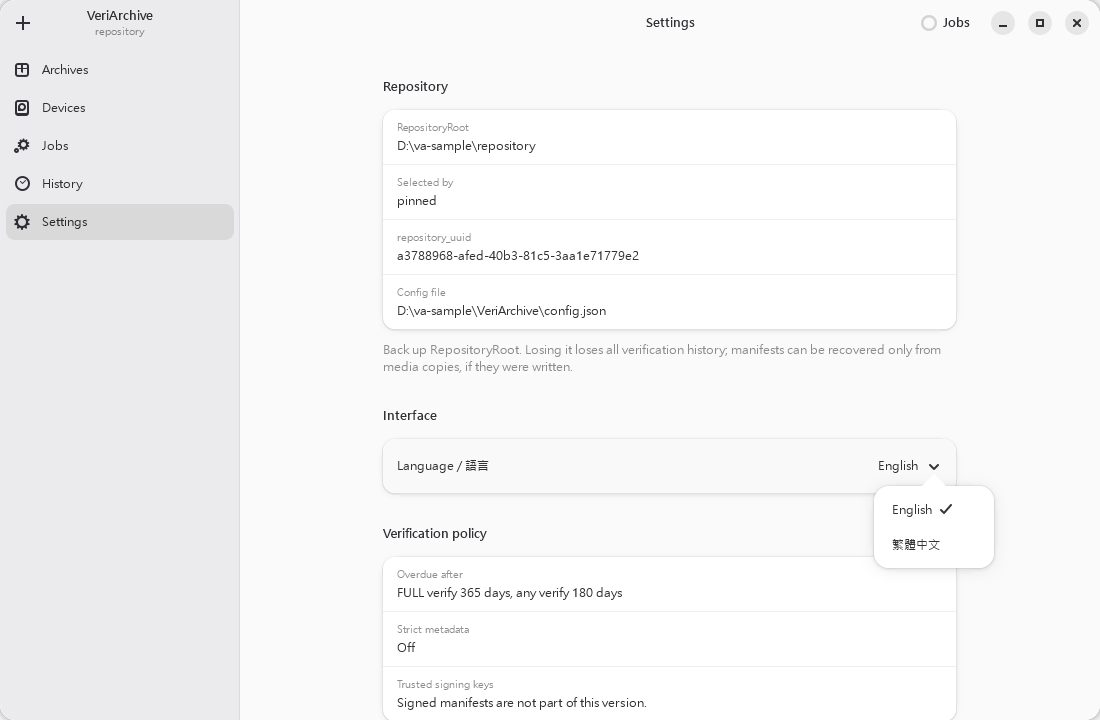
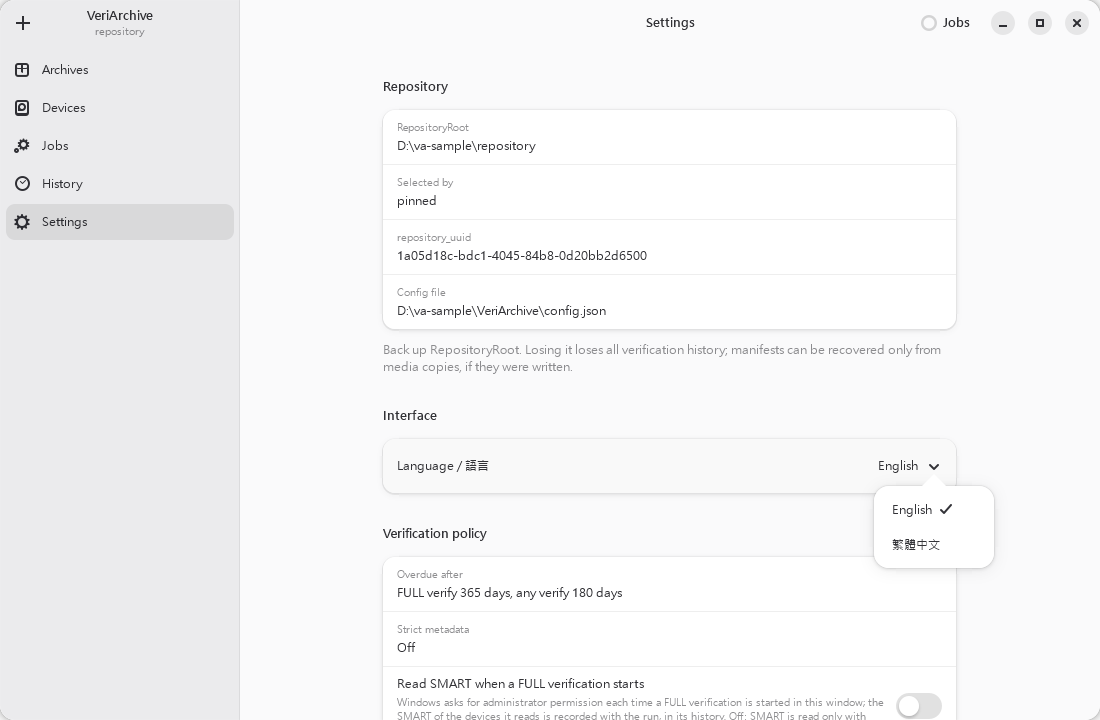
docs: add the dependency install commands and make the READMEs and guides easier to read
- Add the commands that install the build dependencies on Windows (MSYS2 UCRT64), Ubuntu 24.04 and Fedora to both READMEs, the same lists as CI's, with a note in .gitlab-ci.yml to keep them in sync
- Describe the graphical interface in both READMEs as a list of its five pages and short paragraphs, in place of one long paragraph
- Reword the real verification's paragraph in both READMEs
- Split the user guides' paragraphs on the sample data of the screenshots, updating the program and the database upgrade into a table, steps and lists
- Call the program portable (可攜式) in the Chinese guide, as the README does
- Retake the Settings pictures (01-settings.png, 07-language.png) in both languages with the 1.3.0 programs, so that they show Read SMART when a FULL verification starts

Changed region(s): [[0.34, 0.9472, 0.8655, 1.0], [0.3709, 0.3361, 0.5873, 0.3667]]

diff --git a/docs/user-guide.md b/docs/user-guide.md
@@ -1,15 +1,35 @@
 # VeriArchive user guide
 
-VeriArchive records integrity evidence for archive disks and later proves whether the archived files were modified, corrupted, deleted, or added to. It only **detects**: it never repairs, restores, or makes backups.
+VeriArchive records file integrity information for archives so you can later check for modified, corrupted, deleted or added files. It only **detects** changes; it does not repair files, restore them or create backups.
 
 The whole workflow is two steps:
 
 1. **Register**: read every file of a folder or volume once and store its fingerprints (BLAKE3 and SHA-256) as the **baseline**.
 2. **Verify**: later, re-read every registered byte from the disk, compare it with the baseline, and report what changed.
 
-With pictures of the graphical interface (`veriarchive-gui.exe`) as it really looks, this guide takes you step by step through creating the repository, registering an archive, verifying it, reading its result and history, saving a verification report, relocating it, and **confirming that a copy and the original are exactly the same**. Most sections explain the window first, then the command line (`veriarchive-cli.exe`).
+This guide uses screenshots of the graphical interface (`veriarchive-gui.exe`) to explain how to create a repository, register and verify archives, view results and history, save verification reports, relocate archives and cross-check copies against their originals. Most sections cover the GUI first, followed by the corresponding command-line (`veriarchive-cli.exe`) instructions.
 
-All data in the screenshots is sample data. This guide is public, so its screenshots cannot show what a real device holds. The archives are folders of sample files on one volume, under `D:\va-sample`: `原始資料` (`ARCH-0001`, the original) and `備份資料` (`ARCH-0002`, its copy); `舊版封存` (`ARCH-0003`) stands for an archive that an earlier version registered, still without chunk hashes (see "Adding chunk hashes to an archive registered earlier"); and the picture of Register Archive registers a fourth sample folder, `新的資料`, as `ARCH-0009`. While the screenshots are made, VeriArchive replaces the identity of that volume and its device (volume label, device model, serial and capacity) with fixed sample values (`SAMPLE-VOLUME`, `SAMPLE-DEVICE`, `SAMPLE0001`, 1.0 TiB), lists a fixed set of sample devices and volumes (`SAMPLE-DEVICE-01`, `/media/SAMPLE-VOLUME-1`, ...) on the Devices page and in the dialogs in place of this computer's, answers a read of a device's own serial with a fixed sample identity (`SAMPLE-OWN-SERIAL-01`) and made-up SMART data without asking Windows for administrator permission, and names the computer `SAMPLE-HOST`, so no real device ever shows. The times, durations and read speeds are those of the run that made the pictures. In real use you usually register a whole volume of a device, such as `H:\`, chosen among the attached volumes (see "Registering an archive"), and Archives shows its real volume label, model and capacity; everything else works as in the screenshots.
+### Sample data in the screenshots
+
+The screenshots use sample files and substitute device information so that no real devices or private data appear. All sample archives are folders on one volume, under `D:\va-sample`:
+
+| Folder | Archive label | Purpose |
+|---|---|---|
+| `原始資料` | `ARCH-0001` | The original archive |
+| `備份資料` | `ARCH-0002` | A copy of the original archive |
+| `舊版封存` | `ARCH-0003` | An archive registered by an older version, without chunk hashes (see "Adding chunk hashes to an archive registered earlier") |
+| `新的資料` | `ARCH-0009` | The source used in the Register Archive screenshot |
+
+When generating screenshots, the program substitutes the following information:
+
+- Volume label, device model, serial and capacity: `SAMPLE-VOLUME`, `SAMPLE-DEVICE`, `SAMPLE0001` and 1.0 TiB.
+- Devices page and dialogs: a fixed set of sample devices and volumes, such as `SAMPLE-DEVICE-01` and `/media/SAMPLE-VOLUME-1`, instead of this computer's actual devices.
+- Device's own serial and SMART: `SAMPLE-OWN-SERIAL-01` and simulated SMART data, without requesting administrator permission from Windows.
+- Computer name: `SAMPLE-HOST`.
+
+Times, durations and read speeds are the actual measurements from the run used to generate the screenshots.
+
+In normal use, you would usually register a whole volume, such as `H:\`, from the attached volumes (see "Registering an archive"). Archives then shows the actual volume label, model and capacity; the other operations work as shown.
 
 [繁體中文版](user-guide.zh-TW.md)
 
@@ -27,7 +47,15 @@ The zip holds no folder of its own: its `bin`, `lib` and `share` go straight int
 - `bin/veriarchive-device-identity.exe`: the device identity reader, which the window starts only when you ask it to read a device's own serial behind its enclosure or the SMART of the attached devices, with the administrator permission that Windows asks you for (see "A device moved to another enclosure" and "SMART"); it is not meant to be opened by hand
 - `lib/` and `share/`: image loaders, icons, settings and translations GTK needs; `share/doc/VeriArchive/`: this guide and a short README; `share/licenses/`: licenses of the libraries the program uses
 
-To update the program, close VeriArchive, then unzip the new version's zip **into the same folder** (`D:\VeriArchive` in the example) and let it replace the files there. In Windows Explorer: right-click the zip, choose "Extract All...", type the program folder as the destination, and when asked, choose to replace the files in the destination. Explorer proposes a new folder named after the zip instead; a program unzipped there finds none of your records. The zip holds no `bin\data` and no `bin\config.json`, so the existing records are not overwritten. Do not delete the old folder first. To see which version runs, look at "Program version" under About at the end of the Settings page, or run `veriarchive-cli --version` or `veriarchive-cli repo info`.
+To update VeriArchive:
+
+1. Close the program.
+2. In Windows Explorer, right-click the new version's zip and choose "Extract All...".
+3. Set the destination to **the existing program folder** (`D:\VeriArchive` in this example), then replace the files when prompted.
+
+Explorer defaults to a new folder named after the zip. If you extract there, that copy of the program will not find your existing records. The zip contains neither `bin\data` nor `bin\config.json`, so replacing the program files does not overwrite your records. **Do not delete the old folder first.**
+
+To check the running version, look for "Program version" under About at the bottom of Settings, or run `veriarchive-cli --version` or `veriarchive-cli repo info`.
 
 ### Moving the program folder
 
@@ -41,7 +69,21 @@ On first use, the repository (`data`) and the config file that remembers it (`co
 
 ### After updating VeriArchive
 
-A new version may need to upgrade the repository's database, which earlier versions then cannot open. The first time it opens the repository, it keeps a copy of the database as it is beside it, in the repository folder, named for the database's old schema version and the day, for example `veriarchive-schema-1-before-upgrade-2026-10-17.db`, and says where the copy is: the command line in its error output (`note: the repository database was upgraded from schema version 1 to 3, ...`), the GUI on the Settings page, which it then shows first. Afterwards Settings and `repo info` go on showing where each such copy is, and what it is for (`Copy of the database from before an upgrade: ... (an earlier version of VeriArchive can open only this copy; you can delete it once you no longer need that version)`; `repo info --json`: `database_copies_before_upgrade`), for as long as it is in the repository folder, also after the error when the repository cannot be opened, for example when a later version of VeriArchive has upgraded its database: then the copy is your way back. Copying a large database takes a while: meanwhile the GUI's window shows "Upgrading the repository database..." with a moving progress bar in place of its pages, also in a second start that waits for the first one's upgrade, and if the upgrade fails, it says why there. The verification history lives only in the database, so keep the copy until you are sure you will stay with the new version: an earlier version can open only the copy. If the copy cannot be made, for example because the disk is full, nothing is upgraded and the program stops with an error (exit code 11): make room and open the repository again.
+A new version may need to upgrade the repository database. Earlier versions cannot open the upgraded database.
+
+Before upgrading, VeriArchive saves a copy beside the database in the repository folder. The filename includes the old schema version and the date, for example `veriarchive-schema-1-before-upgrade-2026-10-17.db`.
+
+The program reports the copy's location as follows:
+
+- **CLI**: a note on standard error, such as `note: the repository database was upgraded from schema version 1 to 3, ...`.
+- **GUI**: a notice on Settings, which opens first after the upgrade.
+- **Later use**: Settings and `repo info` list each copy's location and purpose for as long as it remains in the repository folder. The notice reads `Copy of the database from before an upgrade: ... (an earlier version of VeriArchive can open only this copy; you can delete it once you no longer need that version)`. In `repo info --json`, these copies appear under `database_copies_before_upgrade`.
+
+The copies are also listed after an error if the repository cannot be opened, including when a newer version has already upgraded it. Use the pre-upgrade copy if you need to return to the earlier version.
+
+Copying a large database can take time. The GUI shows "Upgrading the repository database..." and an animated progress bar until the pages are ready. A second window opened during the upgrade waits with the same message. If the upgrade fails, the window explains why.
+
+**Keep the copy until you are sure you will continue using the new version.** Verification history exists only in the database, and the earlier version can open only the pre-upgrade copy. If the copy cannot be created, for example because the disk is full, VeriArchive leaves the database unchanged and stops with exit code 11. Free up space, then open the repository again.
 
 ## The window
 

diff --git a/README.md b/README.md
@@ -47,10 +47,12 @@ can reach those disks cannot change it, and back it up (see "Backing up the repo
 
 ## A real verification
 
-Not sample data: the FULL verification of a real archive, in the Chinese interface. Its 144,621
-entries, 9.2 TiB, were all read and matched in 11 h 56 min, at 214 MiB/s on average; the chart is
-the read speed along the archive's content. The device had been moved to another enclosure since
-the archive was registered, and was confirmed after reading the device's own serial.
+The screenshot below shows a FULL verification of a real archive, using the Traditional Chinese
+interface. All 144,621 entries, totalling 9.2 TiB, were read and matched the baseline in
+11 h 56 min, at an average of 214 MiB/s. The chart shows read speed across the archive's content.
+
+The device had been moved to another enclosure after registration. Before verification, its own
+serial was read to confirm that it was the same device.
 
 ![The FULL verification of a real archive: passed](docs/real/full-verification.png)
 
@@ -87,6 +89,24 @@ The pages of the graphical interface, showing sample data made by
 Windows commands run in an **MSYS2 UCRT64** shell. Dependencies: GCC ≥ 14, CMake ≥ 3.28, Ninja,
 SQLite ≥ 3.40, OpenSSL 3, GLib ≥ 2.72, GTK4 ≥ 4.14 and libadwaita ≥ 1.5 (for the GUI). BLAKE3 and nlohmann/json are
 downloaded at configure time when not installed.
+
+Install the dependencies for your operating system below. These lists match the CI configuration
+in `.gitlab-ci.yml`; keep CI and both READMEs in sync when changing dependencies.
+
+```sh
+# Windows, in the MSYS2 UCRT64 shell
+pacman -S --needed mingw-w64-ucrt-x86_64-gcc mingw-w64-ucrt-x86_64-cmake mingw-w64-ucrt-x86_64-ninja \
+    mingw-w64-ucrt-x86_64-pkgconf mingw-w64-ucrt-x86_64-sqlite3 mingw-w64-ucrt-x86_64-openssl \
+    mingw-w64-ucrt-x86_64-glib2 mingw-w64-ucrt-x86_64-gtk4 mingw-w64-ucrt-x86_64-libadwaita
+# Ubuntu 24.04
+sudo apt-get install build-essential cmake ninja-build pkg-config ca-certificates git \
+    libsqlite3-dev libssl-dev libglib2.0-dev libgtk-4-dev libadwaita-1-dev
+# Fedora
+sudo dnf install gcc-c++ cmake ninja-build pkgconf-pkg-config git \
+    sqlite-devel openssl-devel glib2-devel gtk4-devel libadwaita-devel
+```
+
+Then build and test:
 
 ```sh
 cmake --preset windows-ucrt64-debug        # or linux-debug
@@ -193,29 +213,39 @@ again. Never use two copies of one repository at once: their histories would par
 
 ## Graphical interface
 
-`veriarchive-gui` is built with GTK4 and libadwaita (decision 0046). Its pages are Archives (an
-overview of how the archives stand, whose tiles filter the list, with Verify the attached archives
-that need it; the archives with where each is attached now; and the details of the one chosen,
-whose head stays in view as they scroll, from which it is verified, cross-checked, given a new
-revision, exported, relocated or retired), Devices (the attached devices, their health and SMART, volumes and
-archives), Jobs (the jobs of the window, and the unfinished operations wherever they were started),
-History (the runs of every archive, each with its result page, from which the verification report
-of a run that reached a result is saved) and Settings; Register Archive and Cross-check are dialogs
-(decision 0049). A cross-check is the window's comparison: it takes neither archive for the
-original, and its report gives each archive's last FULL verification.
-Every registration, verification, cross-check, relocation and export runs as a job with its
-progress, which Stop ends; interrupted registrations, verifications and relocations can be
-resumed in Jobs, and unfinished ones abandoned there. A device moved to another USB enclosure is verified
-in full once you confirm that it is the same device, by its own serial or on your word; the
-confirmation is recorded in the hash-chained history, and only a pass records the new enclosure
-(decision 0047). The GUI runs unprivileged: only to read a device's own serial behind its
-enclosure, or the SMART of the attached devices, on your request, does it start the device identity
-reader (`veriarchive-device-identity.exe`, Windows only), which Windows asks you to allow with
-administrator permission each time. It reads the identity and SMART of every attached device and
-nothing of their content; the repository keeps each SMART read, and Devices and Archives show a
-device whose latest read alerts, such as one with reallocated or pending sectors; where Settings says so, it
-reads SMART as each FULL verification starts and records it with the run (decision 0052).
-The command line never asks for it.
+`veriarchive-gui` uses GTK4 and libadwaita (decision 0046) and has five pages:
+
+- **Archives**: view the status overview, filter the archive list and see where each archive is
+  attached. The selected archive's details offer verification, cross-checking, new revisions,
+  export, relocation and retirement, with a header that stays visible while scrolling.
+  You can also verify all attached archives that need verification at once.
+- **Devices**: view attached devices, their health, SMART data, volumes and archives.
+- **Jobs**: view this window's jobs and unfinished operations started from any window or the CLI.
+- **History**: view all archives' recorded runs and their result pages. For runs that reached a
+  result, save a verification report from the result page.
+- **Settings**: view the repository and the verification policy, and change the interface language.
+
+Register Archive and Cross-check use dialogs (decision 0049). A cross-check treats neither archive
+as the original, and its report lists each archive's last FULL verification.
+
+Registration, verification, cross-checking, relocation and export run as jobs with progress
+indicators. Stop ends a job. Interrupted registrations, verifications and relocations can be
+resumed or abandoned on the Jobs page.
+
+After a device moves to another USB enclosure, you must confirm that it is the same device before
+a FULL verification, either by reading its own serial or by confirming it yourself. The
+confirmation is recorded in the hash-chained history; the new enclosure is recorded only if
+verification passes (decision 0047).
+
+The GUI runs without administrator privileges. Only when you request the device's own serial
+behind its enclosure, or SMART data from attached devices, does it start the device identity
+reader (`veriarchive-device-identity.exe`, Windows only). Windows asks for administrator permission
+each time. The reader reads the identity and SMART data of all attached devices, not their files.
+
+The repository keeps each SMART reading. Devices and Archives flag devices whose latest reading
+reports an alert, such as reallocated or pending sectors. Settings also offers an option to read
+SMART at the start of each FULL verification and record it with the run (decision 0052).
+The CLI never requests administrator permission.
 
 Only the command line shows every revision of an archive (`archive show`), imports manifests
 (`import`), writes a list for `sha256sum -c` (`export-sha256sums`), rebuilds the index
